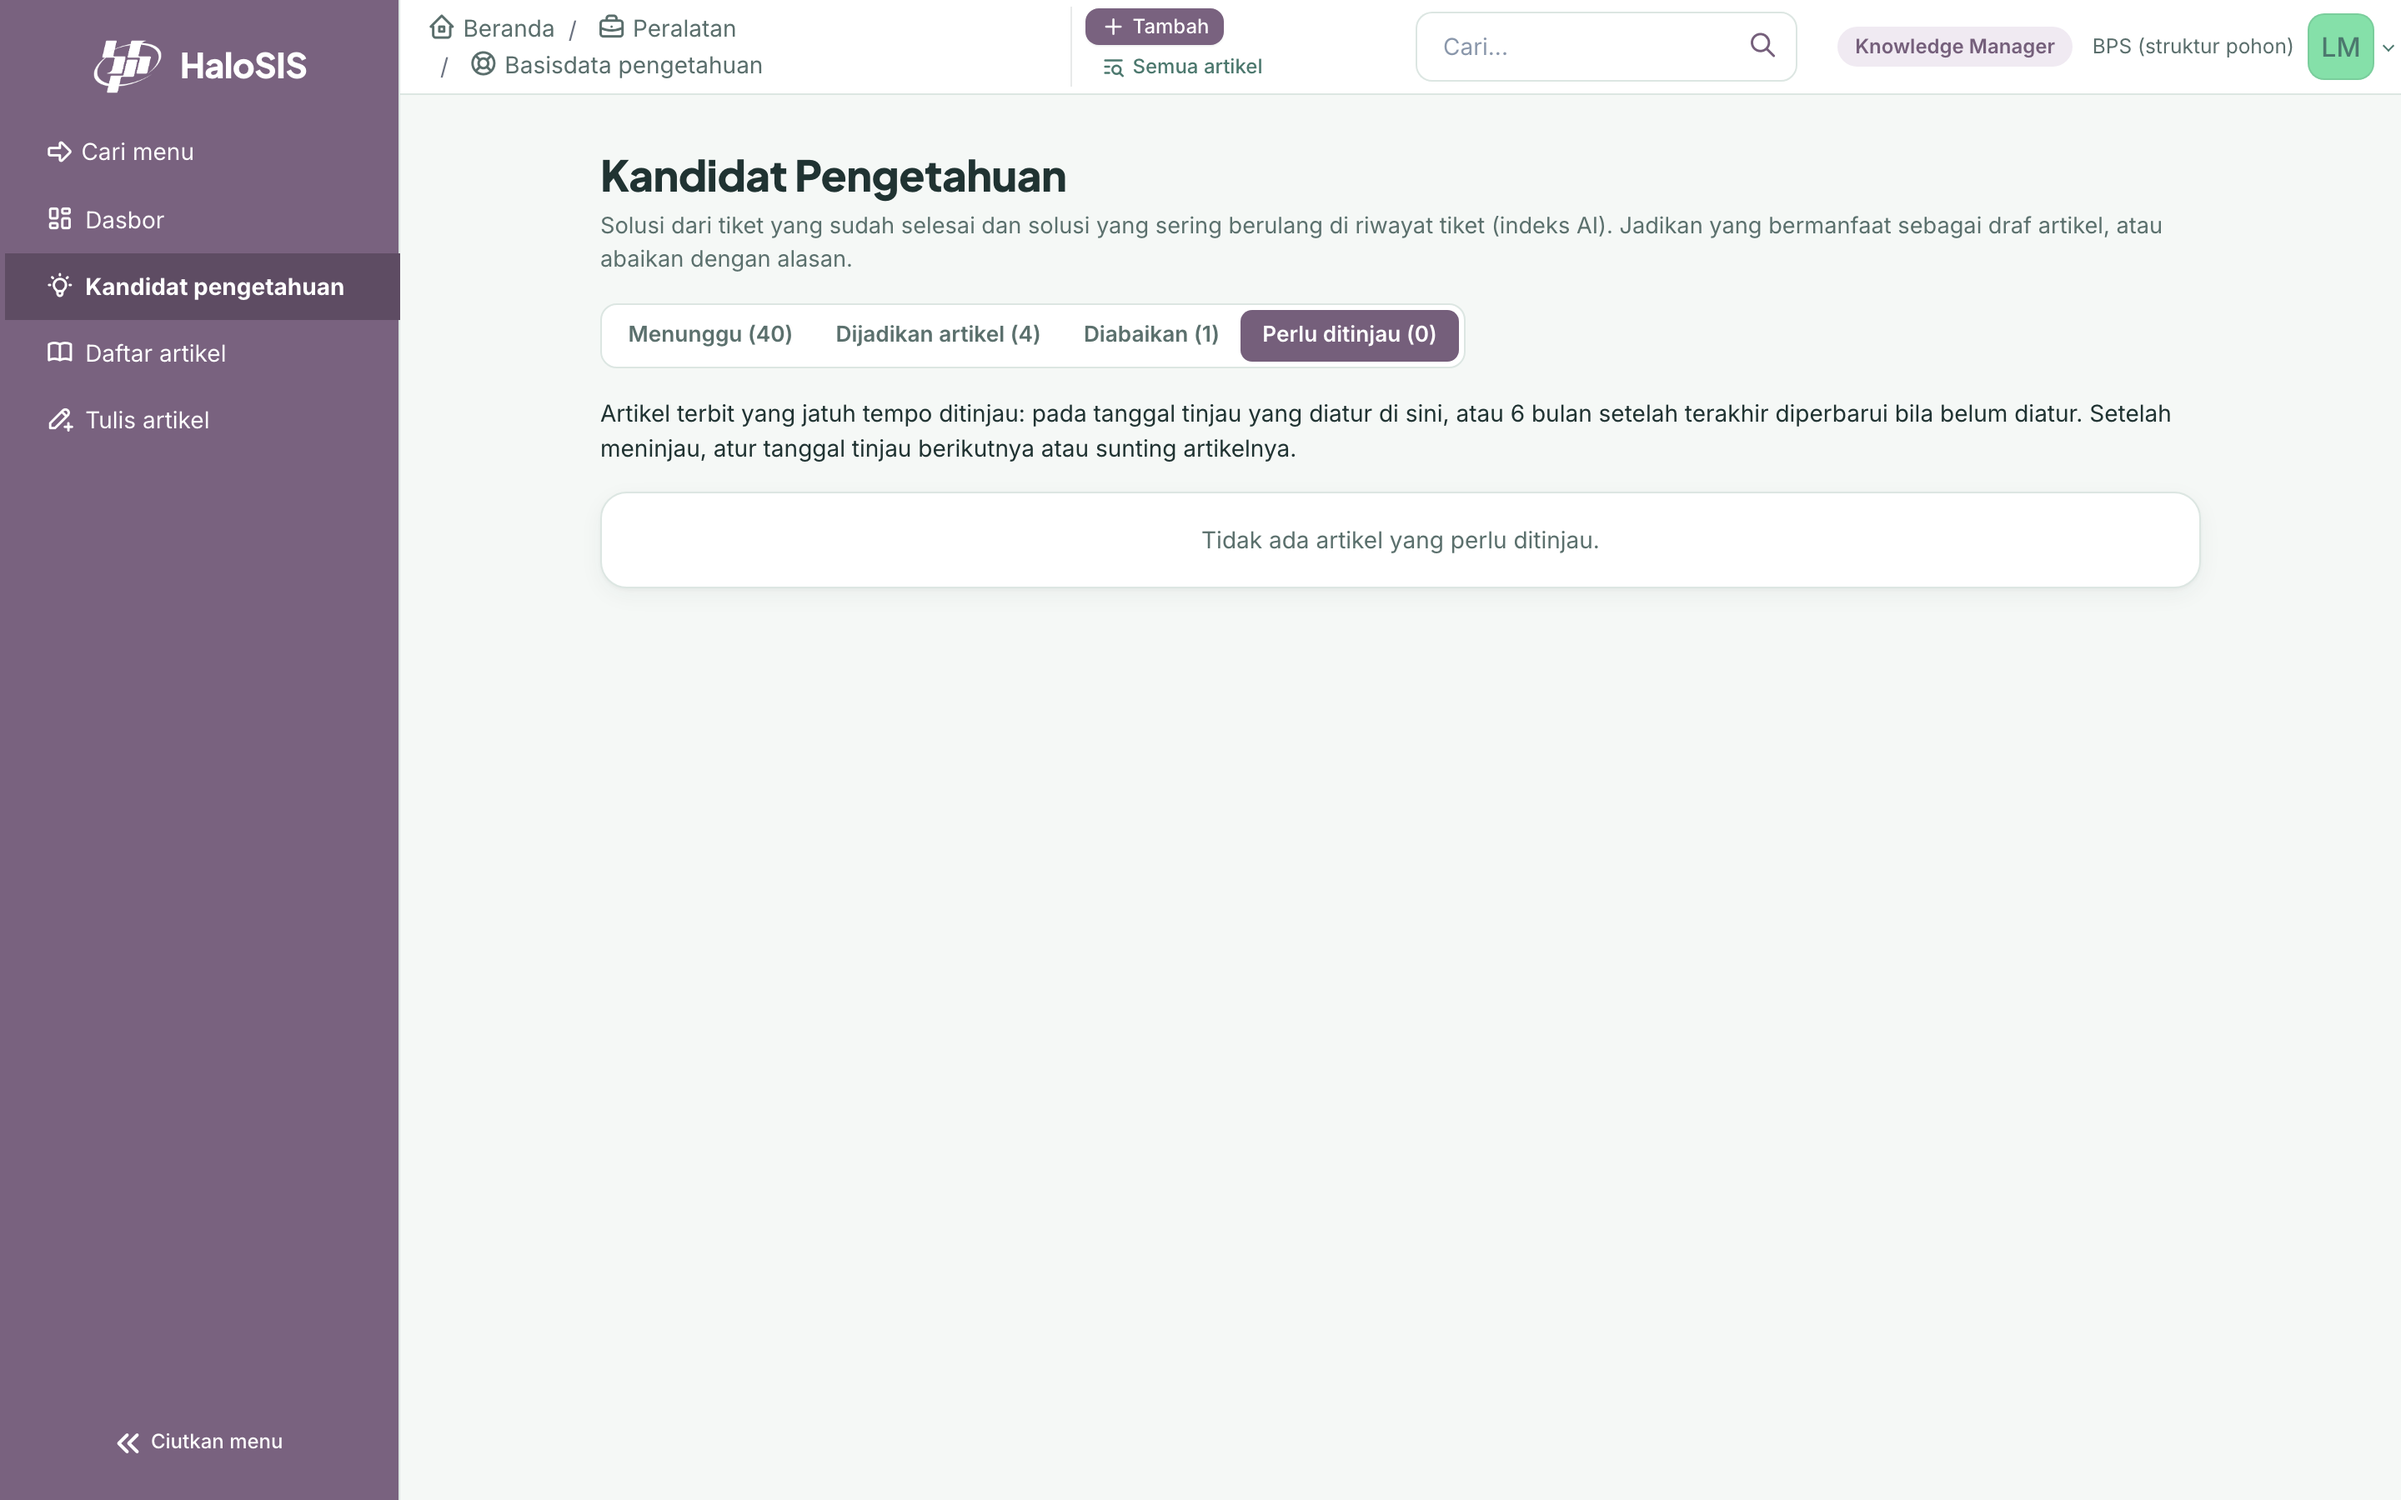
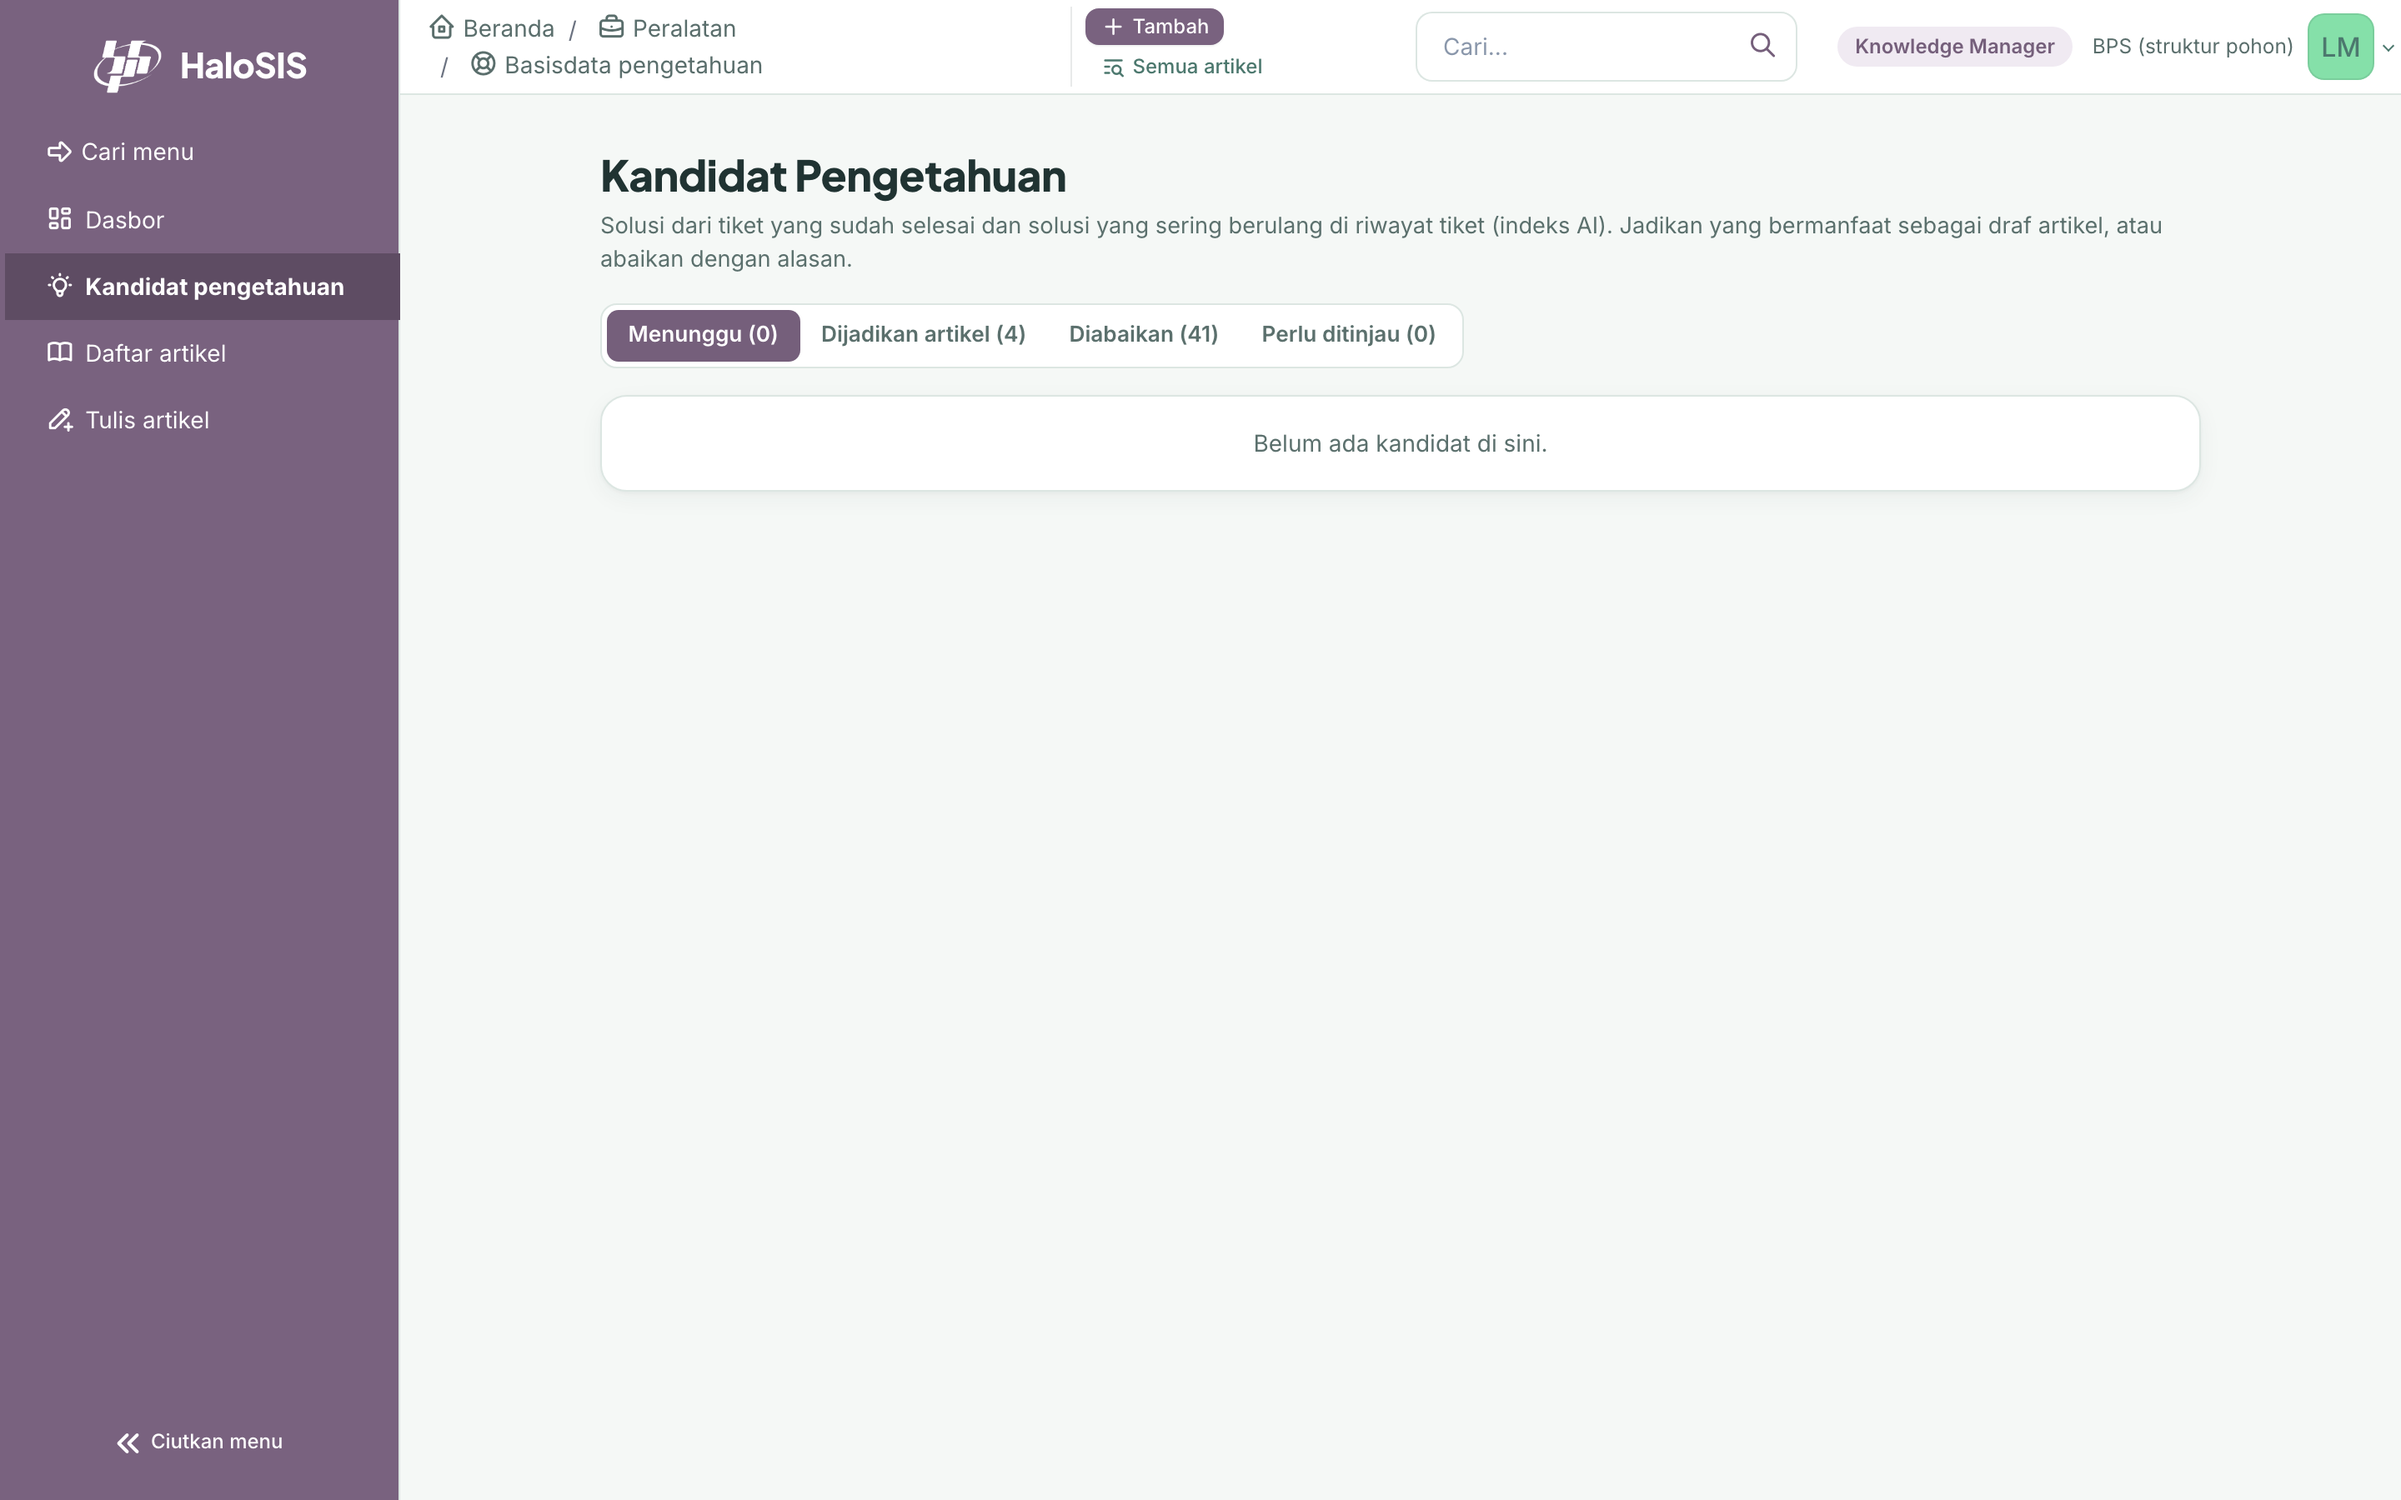
Capture alur UC-01–10 + sinkron T4

Changed region(s): [[0.25, 0.1867, 0.9062, 0.3111], [0.5, 0.3422, 0.6562, 0.3733]]

diff --git a/reports/shots/alur/INDEKS.md b/reports/shots/alur/INDEKS.md
@@ -41,11 +41,11 @@
 | UC-09 | 4b | – | UC-09_4b.png | Dua sesi: sesi kedua memutuskan kandidat yang sudah diputuskan |
 | UC-09 | 1a | – | UC-09_1a.png | Layanan AI dimatikan: kandidat tiket tetap tampil + pemberitahuan |
 | UC-09 | S2 | – | UC-09_S2.png | Draf artikel tersimpan dari kandidat |
-| UC-09 | 3a | – | UC-09_3a.png | Tab Perlu ditinjau kosong ("Tidak ada artikel yang perlu ditinjau."; teks "Belum ada kandidat di sini." hanya muncul di tab kandidat) |
+| UC-09 | 3a | – | UC-09_3a.png | Tab Menunggu kosong: "Belum ada kandidat di sini." (semua kandidat diabaikan dengan alasan "uji capture", lalu data dipulihkan dari backup/demo-20261115-080525) |
 | UC-09 | S1a | – | UC-09_S1a.png | Tanggal tinjau lampau ditolak: Pilih tanggal tinjau setelah hari ini. |
 | UC-09 | S1 | – | UC-09_S1.png | Tanggal tinjau berikutnya tersimpan. |
 | UC-09 | 5a | – | UC-09_5a.png | Draf disusun AI (Ollama qwen2.5:3b), "Disusun AI, wajib ditinjau" |
-| UC-09 | 7a | – | UC-09_7a.png | Daftar artikel (Tampilkan yang belum diterbitkan): draf bertanda ikon "Item ini belum diterbitkan" |
+| UC-09 | 7a | – | UC-09_7a.png | Daftar artikel (Tampilkan yang belum diterbitkan): draf bertanda ikon "Item ini belum diterbitkan"; tooltip asli, screenshot manual pengguna |
 | UC-10 | 1a | – | UC-10_1a.png | rina membuka alamat Pengaturan AI langsung: akses ditolak |
 | UC-10 | 6a | – | UC-10_6a.png | Pratinjau SLA tanpa memilih SLA/target |
 | UC-10 | 8a | – | UC-10_8a.png | URL layanan AI ftp://x ditolak |
@@ -64,5 +64,6 @@
 **Catatan UC-06–10**
 - UC-09 S1/S1a: tidak ada jalur UI/API/seed untuk artikel jatuh tempo; atas izin, SATU `UPDATE glpi_knowbaseitems SET date_mod = NOW() - 8 bulan` pada artikel FAQ tertua (skrip, lalu dipulihkan dari backup/demo-20261115-080525).
 - UC-09 5a: LLM diaktifkan sementara lewat .env (LLM_PROVIDER=openai, Ollama host, qwen2.5:3b), halosis-ai di-recreate; .env dan halosis-ai dikembalikan setelahnya (`node scripts/capture_alur.js --uc UC-09_5a`).
-- UC-09 7a: ikon mata-coret di daftar artikel; teks "Item ini belum diterbitkan" hanya berupa tooltip/teks tersembunyi (visually-hidden).
+- UC-09 7a: PNG diganti dengan screenshot manual pengguna (tooltip asli "Item ini belum diterbitkan" tampak); bukan tooltip tiruan DOM.
+- UC-09 3a: diambil ulang lewat Playwright (lina, tab Menunggu, 40 kandidat diabaikan "uji capture"); setelahnya demo_snapshot.sh pulihkan, /health ok.
 - Figma (halaman Alur Real Use Case, UC-09): kotak abu 3a, S-1, S-1a, 5a diganti frame screenshot; 7a diganti; jarak baris bawah dirapikan.
